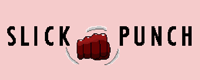
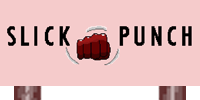
Added 9 new Gamkedo Game Themed Billboards and incorporated them.  Also put feet on the SlickPunch Billboard image and incorporated it.

diff --git a/js/RoadsideDecoration.js b/js/RoadsideDecoration.js
@@ -1,6 +1,8 @@
 //RoadsideDecoration
 const DecorationType = {
 	AetherBillboard: "AetherBillboard",
+	AntventureBillboard:"AntventureBillboard",
+	Arcade88Billboard:"Arcade88Billboard",
 	ArcaNinjaDroidBillboard: "ArcaNinjaDroidBillboard",
 	ArcaNinjaDroidBillboardSnow: "ArcaNinjaDroidBillboardSnow",
 	AttractionsBillboard: "roadsideAttractions",
@@ -15,18 +17,26 @@ const DecorationType = {
 	DigitalSignDontTextBack: "DigitalSignDontTextBack",
 	DigitalSignWhatHoldsYouBack: "DigitalSignWhatHoldsYouBack",
 	EastCoastBillboard: "EastCoastBillboard",
+	ExcaliburBillboard:"ExcaliburBillboard",
+	GalaxyBreacher:"GalaxyBreacher",
 	GlobutonBillboard: "GlobutonBillboard",
 	MageHookBillboard: "MageHookBillboard",
 	MageHookBillboardSnow: "MageHookBillboardSnow",
 	NiceCityBillboard: "NiceCityBillboard",
 	ObeyBillboard: "ObeyBillboard",
+	OptiverseOrigins:"OptiverseOrigins",
+	PlaygroundLegends:"PlaygroundLegends",
 	RomanAdventureBillboard: "RomanAdventureBillboard",
-	SpellSpielBillboard: "SpellSpielBillboard",
 	SandwhichBillboard: "SandwhichBillboard",
 	SandwhichBillboardSnow: "SandwhichBillboardSnow",
+	ScrapMetalElites:"ScrapMetalElites",
+	SlickPunchBillboard:"SlickPunch",
+	SpellSpielBillboard: "SpellSpielBillboard",
 	TinyRoboRacersBillboard: "TinyRoboRacersBillboard",
 	NotABillboard: "NotABillboard",
 	WeMustPrepareBillboard: "WeMustPrepareBillboard",
+	WeTookTheirCheese:"WeTookTheirCheese",
+	WreckingCloudBillboard:"WreckingCloud",
 	BillboardLight: "BillboardLight",
 	CheckeredFlag: "CheckeredFlag",
 	CheckPoint: "CheckPoint",
@@ -240,6 +250,10 @@ function RoadsideDecoration(image, pos) {
 		switch (name) {
 			case "AetherBillboard.png":
 				return DecorationType.AetherBillboard;
+			case "AntVentureBillboard.png":
+				return DecorationType.AntventureBillboard;
+			case "Arcade88Billboard.png":
+				return DecorationType.Arcade88Billboard;
 			case "ArcaninjadroidBillboard.png":
 				return DecorationType.ArcaNinjaDroidBillboard;
 			case "ArcaninjadroidBillboardSnow.png":
@@ -250,50 +264,66 @@ function RoadsideDecoration(image, pos) {
 				return DecorationType.BurgerBillboard;
 			case "BurgerBillboardSnow.png":
 				return DecorationType.BurgerBillboardSnow;
+			case "chrisForPresident.png":
+				return DecorationType.ChrisForPresident;
 			case "ClashTracksBillboard.png":
 				return DecorationType.ClashTracksBillboard;
 			case "ClashTracksBillboardSnow.png":
 				return DecorationType.ClashTracksBillboardSnow;
-			case "DigitalSignDontTextBack.png":
-				return DecorationType.DigitalSignDontTextBack;
-			case "DigitalSignWhatHoldsYouBack.png":
-				return DecorationType.DigitalSignWhatHoldsYouBack;
+			case "CoffeeBillboard.png":
+				return DecorationType.CoffeeBillboard;
+			case "CoffeeBillboardSnow.png":
+				return DecorationType.CoffeeBillboardSnow;
 			case "EastCoastBillboard.png":
 				return DecorationType.EastCoastBillboard;
+			case "ExcaliburBillboard.png":
+				return DecorationType.ExcaliburBillboard;
+			case "GalaxyBreacherBillboard.png":
+				return DecorationType.GalaxyBreacher;
+			case "GlobutonBillboard.png":
+				return DecorationType.GlobutonBillboard;
 			case "MageHookBillboard.png":
 				return DecorationType.MageHookBillboard;
 			case "MageHookBillboardSnow.png":
 				return DecorationType.MageHookBillboardSnow;
 			case "NiceCityBillboard.png":
 				return DecorationType.NiceCityBillboard;
-			case "GlobutonBillboard.png":
-				return DecorationType.GlobutonBillboard;
+			case "NotABillboard.png":
+				return DecorationType.NotABillboard;
 			case "ObeyBillboard.png":
 				return DecorationType.ObeyBillboard;
+			case "OptiverseOriginsBillboard.png":
+				return DecorationType.OptiverseOrigins;
+			case "PlaygroundLegendsBillboard.png":
+				return DecorationType.PlaygroundLegends;
+			case "roadsideAttractions.png":
+				return DecorationType.AttractionsBillboard;
 			case "RomanAdventureBillboard.png":
 				return DecorationType.RomanAdventureBillboard;
+			case "SandwhichBillboard.png":
+				return DecorationType.SandwhichBillboard;
+			case "SandwhichBillboardSnow.png":
+				return DecorationType.SandwhichBillboardSnow;
+			case "ScrapMetalElitesBillboard.png":
+				return DecorationType.ScrapMetalElites;
+			case "SlickPunch.png":
+				return DecorationType.SlickPunchBillboard;
 			case "SpellSpielBillboard.png":
 				return DecorationType.SpellSpielBillboard;
 			case "TinyRoboRacersBillboard.png":
 				return DecorationType.TinyRoboRacersBillboard;
 			case "WeMustPrepareBillboard.png":
 				return DecorationType.WeMustPrepareBillboard;
-			case "chrisForPresident.png":
-				return DecorationType.ChrisForPresident;
-			case "NotABillboard.png":
-				return DecorationType.NotABillboard;
-			case "roadsideAttractions.png":
-				return DecorationType.AttractionsBillboard;
-			case "CoffeeBillboard.png":
-				return DecorationType.CoffeeBillboard;
-			case "CoffeeBillboardSnow.png":
-				return DecorationType.CoffeeBillboardSnow;
-			case "SandwhichBillboard.png":
-				return DecorationType.SandwhichBillboard;
-			case "SandwhichBillboardSnow.png":
-				return DecorationType.SandwhichBillboardSnow;
+			case "WeTookTheirCheeseBillboard.png":
+				return DecorationType.WeTookTheirCheese;
+			case "WreckingCloudBillboard.png":
+				return DecorationType.WreckingCloudBillboard;
 			case "BillboardLight.png":
 				return DecorationType.BillboardLight;
+			case "DigitalSignDontTextBack.png":
+				return DecorationType.DigitalSignDontTextBack;
+			case "DigitalSignWhatHoldsYouBack.png":
+				return DecorationType.DigitalSignWhatHoldsYouBack;
 			case "CheckeredFlag.png":
 				return DecorationType.CheckeredFlag;
 			case "CheckPoint.png":
@@ -499,6 +529,16 @@ function RoadsideDecoration(image, pos) {
 			case DecorationType.GlobutonBillboard:
 			case DecorationType.SandwhichBillboard:
 			case DecorationType.SandwhichBillboardSnow:
+			case DecorationType.SlickPunchBillboard:
+			case DecorationType.WreckingCloudBillboard:
+			case DecorationType.OptiverseOrigins:
+			case DecorationType.AntventureBillboard:
+			case DecorationType.Arcade88Billboard:
+			case DecorationType.GalaxyBreacher:
+			case DecorationType.PlaygroundLegends:
+			case DecorationType.ExcaliburBillboard:
+			case DecorationType.ScrapMetalElites:
+			case DecorationType.WeTookTheirCheese:
 				return { xOffset: 0, yOffset: 100, zOffset: -5, width: 395, height: 156, depth: 10 };
 			case DecorationType.ClashTracksBillboard:
 			case DecorationType.ClashTracksBillboardSnow:
@@ -570,6 +610,16 @@ function RoadsideDecoration(image, pos) {
 			case DecorationType.EastCoastBillboard:
 			case DecorationType.ChrisForPresident:
 			case DecorationType.NotABillboard:
+			case DecorationType.WreckingCloudBillboard:
+			case DecorationType.OptiverseOrigins:
+			case DecorationType.AntventureBillboard:
+			case DecorationType.Arcade88Billboard:
+			case DecorationType.GalaxyBreacher:
+			case DecorationType.PlaygroundLegends:
+			case DecorationType.ExcaliburBillboard:
+			case DecorationType.ScrapMetalElites:
+			case DecorationType.SlickPunchBillboard:
+			case DecorationType.WeTookTheirCheese:
 			case DecorationType.Tree3:
 			case DecorationType.Tree3Leafless:
 			case DecorationType.Tree3LeaflessSnow:

diff --git a/js/ImageLoading.js b/js/ImageLoading.js
@@ -119,32 +119,42 @@ const slipperyRoadLitPic = document.createElement("img");
 
 // billboards
 const billboardLightPic = document.createElement("img");
-const blankBillboard = document.createElement("img");
-const obeyBillboard = document.createElement("img");
-const eastCoastBillboard = document.createElement("img");
-const niceCityBillboard = document.createElement("img");
-const romanAdventureBillboard = document.createElement("img");
-const spellSpielBillboard = document.createElement("img");
-const mageHookBillboard = document.createElement("img");
-const mageHookBillboardSnow = document.createElement("img");
-const tinyRoboRacersBillboard = document.createElement("img");
-const chrisForPresidentBillboard = document.createElement("img");
-const burgerBillboard = document.createElement("img");
-const burgerBillboardSnow = document.createElement("img");
-const clashTracksBillboard = document.createElement("img");
-const clashTracksBillboardSnow = document.createElement("img");
-const notABillboard = document.createElement("img");
-const attractionsBillboard = document.createElement("img");
-const coffeeBillboard = document.createElement("img");
-const coffeeBillboardSnow = document.createElement("img");
-const sandwhichBillboard = document.createElement("img");
-const sandwhichBillboardSnow = document.createElement("img");
 const aetherBillboard = document.createElement("img");
 const aetherBillboardSnow = document.createElement("img");
+const antventureBillboard = document.createElement("img");
+const arcade88Billboard = document.createElement("img");
 const arcaNinjaDroidBillboard = document.createElement("img");
 const arcaNinjaDroidBillboardSnow = document.createElement("img");
+const attractionsBillboard = document.createElement("img");
+const blankBillboard = document.createElement("img");
+const burgerBillboard = document.createElement("img");
+const burgerBillboardSnow = document.createElement("img");
+const chrisForPresidentBillboard = document.createElement("img");
+const clashTracksBillboard = document.createElement("img");
+const clashTracksBillboardSnow = document.createElement("img");
+const coffeeBillboard = document.createElement("img");
+const coffeeBillboardSnow = document.createElement("img");
+const excaliburBillboard = document.createElement("img");
+const eastCoastBillboard = document.createElement("img");
+const galaxyBreacherBillboard = document.createElement("img");
 const globutonBillboard = document.createElement("img");
+const mageHookBillboard = document.createElement("img");
+const mageHookBillboardSnow = document.createElement("img");
+const niceCityBillboard = document.createElement("img");
+const notABillboard = document.createElement("img");
+const obeyBillboard = document.createElement("img");
+const optiverseOriginsBillboard = document.createElement("img");
+const playgroundLegendsBillboard = document.createElement("img");
+const romanAdventureBillboard = document.createElement("img");
+const sandwhichBillboard = document.createElement("img");
+const sandwhichBillboardSnow = document.createElement("img");
+const scrapMetalElitesBillboard = document.createElement("img");
+const slickPunchBillboard = document.createElement("img");
+const spellSpielBillboard = document.createElement("img");
+const tinyRoboRacersBillboard = document.createElement("img");
 const weMustPrepareBillboard = document.createElement("img");
+const weTookTheirCheeseBillboard = document.createElement("img");
+const wreckingCloudBillboard = document.createElement("img");
 // FX.js
 const particlePic = document.createElement("img");
 
@@ -338,6 +348,26 @@ function loadImages() {
 	billboardSprites.push(globutonBillboard);
 	imageList.push({ imgName: weMustPrepareBillboard, theFile: "WeMustPrepareBillboard.png" }); ////
 	billboardSprites.push(weMustPrepareBillboard);
+	imageList.push({ imgName: wreckingCloudBillboard, theFile: "WreckingCloudBillboard.png" }); ////
+	billboardSprites.push(wreckingCloudBillboard);
+	imageList.push({ imgName: optiverseOriginsBillboard, theFile: "OptiverseOriginsBillboard.png" }); ////
+	billboardSprites.push(optiverseOriginsBillboard);
+	imageList.push({ imgName: arcade88Billboard, theFile: "Arcade88Billboard.png" }); ////
+	billboardSprites.push(arcade88Billboard);
+	imageList.push({ imgName: galaxyBreacherBillboard, theFile: "GalaxyBreacherBillboard.png" }); ////
+	billboardSprites.push(galaxyBreacherBillboard);
+	imageList.push({ imgName: playgroundLegendsBillboard, theFile: "PlaygroundLegendsBillboard.png" }); ////
+	billboardSprites.push(playgroundLegendsBillboard);
+	imageList.push({ imgName: excaliburBillboard, theFile: "ExcaliburBillboard.png" }); ////
+	billboardSprites.push(excaliburBillboard);
+	imageList.push({ imgName: scrapMetalElitesBillboard, theFile: "ScrapMetalElitesBillboard.png" }); ////
+	billboardSprites.push(scrapMetalElitesBillboard);
+	imageList.push({ imgName: antventureBillboard, theFile: "AntVentureBillboard.png" }); ////
+	billboardSprites.push(antventureBillboard);
+	imageList.push({ imgName: weTookTheirCheeseBillboard, theFile: "WeTookTheirCheeseBillboard.png" }); ////
+	billboardSprites.push(weTookTheirCheeseBillboard);
+	imageList.push({ imgName: slickPunchBillboard, theFile: "SlickPunch.png" }); ////
+	billboardSprites.push(slickPunchBillboard);
 	// FX.js
 	imageList.push({ imgName: particlePic, theFile: "particle.png" });
 	// ETC
